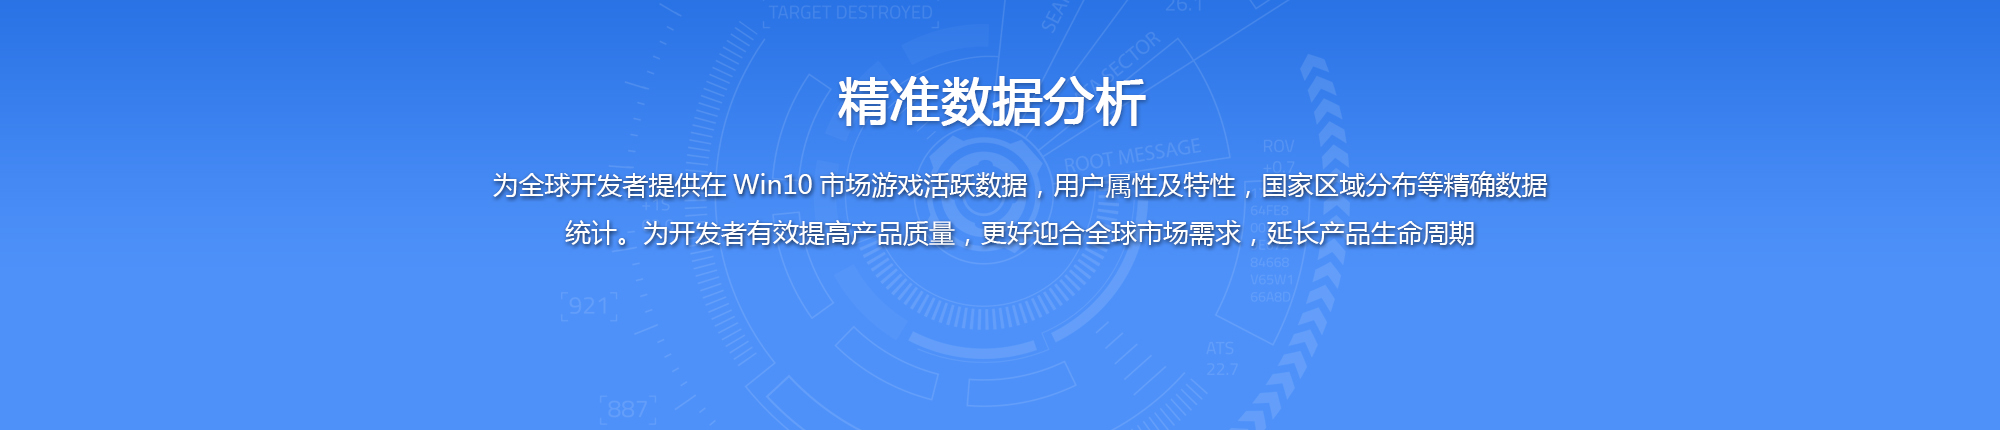
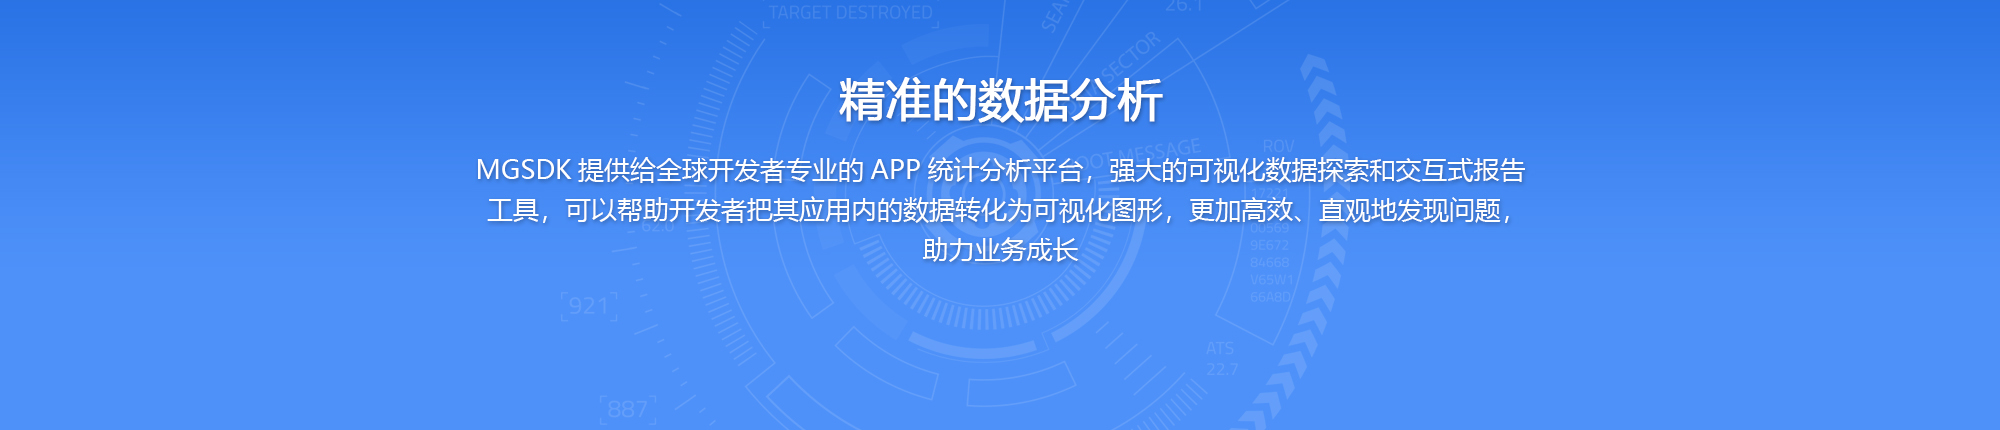
index,data,social

Changed region(s): [[0.217, 0.3628, 0.775, 0.6349], [0.403, 0.1814, 0.589, 0.3023]]

diff --git a/PC/data.html b/PC/data.html
@@ -221,7 +221,7 @@
             <!--第二排-->
             <div class="sdkSceItem">
                 <div class="sdkSceImg sdkSceImg-Rev">
-                    <img src="images/page/sdk-scenario2.png">
+                    <img src="images/page/sdk-scenario-analyze.png">
                     <div class="sdkSceImgDark"></div>
                     <div class="sdkSceImgDark-dec">
                         <span>全球市场数据分析</span>
@@ -271,7 +271,7 @@
                             <i class="iconfont icon-shu-copy"></i>
                         </div>
                         <div class="sdkAccessDec"></div>
-                        <div class="sdkAccessTxt">.exe接入</div>
+                        <div class="sdkAccessTxt">Win32接入</div>
                     </a>
                 </li>
                 <li>

diff --git a/PC/social.html b/PC/social.html
@@ -258,7 +258,7 @@
                             <i class="iconfont icon-iphone"></i>
                         </div>
                         <div class="sdkAccessDec"></div>
-                        <div class="sdkAccessTxt">h5接入</div>
+                        <div class="sdkAccessTxt">H5登陆接入</div>
                     </a>
                 </li>
             </ul>

diff --git a/PC/index.html b/PC/index.html
@@ -305,7 +305,7 @@
                 </div>
             </a>
         </div>
-        <a href="#" class="main-gamesMore">了解更多</a>
+        <a href="javascript:void(0)" class="main-gamesMore">了解更多</a>
     </div>
     <!--听我们合作伙伴说-->
     <div class="main-container-center">

diff --git a/PC/css/global.css b/PC/css/global.css
@@ -252,8 +252,8 @@ css命名一般不采用下划线
 
 .main-advantage {
     float:left;
-    width: 500px;
-    padding-left: 100px;
+    width: 570px;
+    padding-left: 30px;
 }
 
 .main-advantage h3 {
